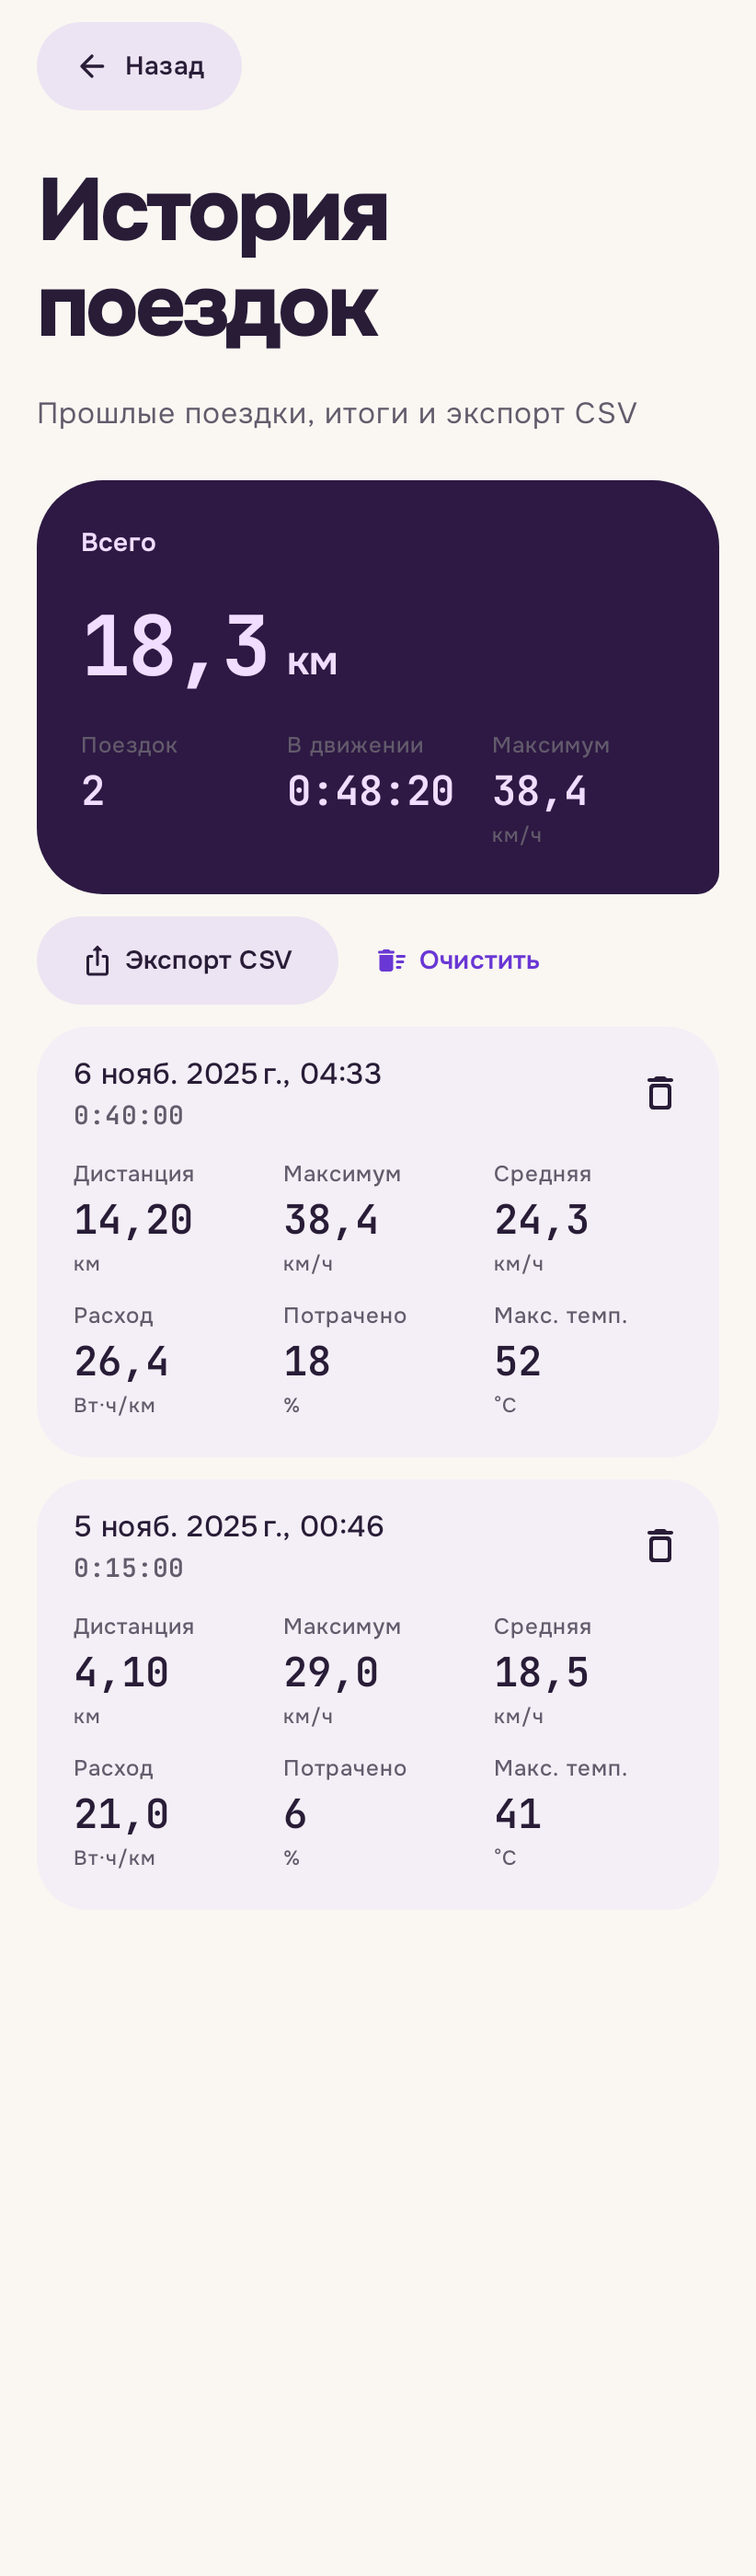
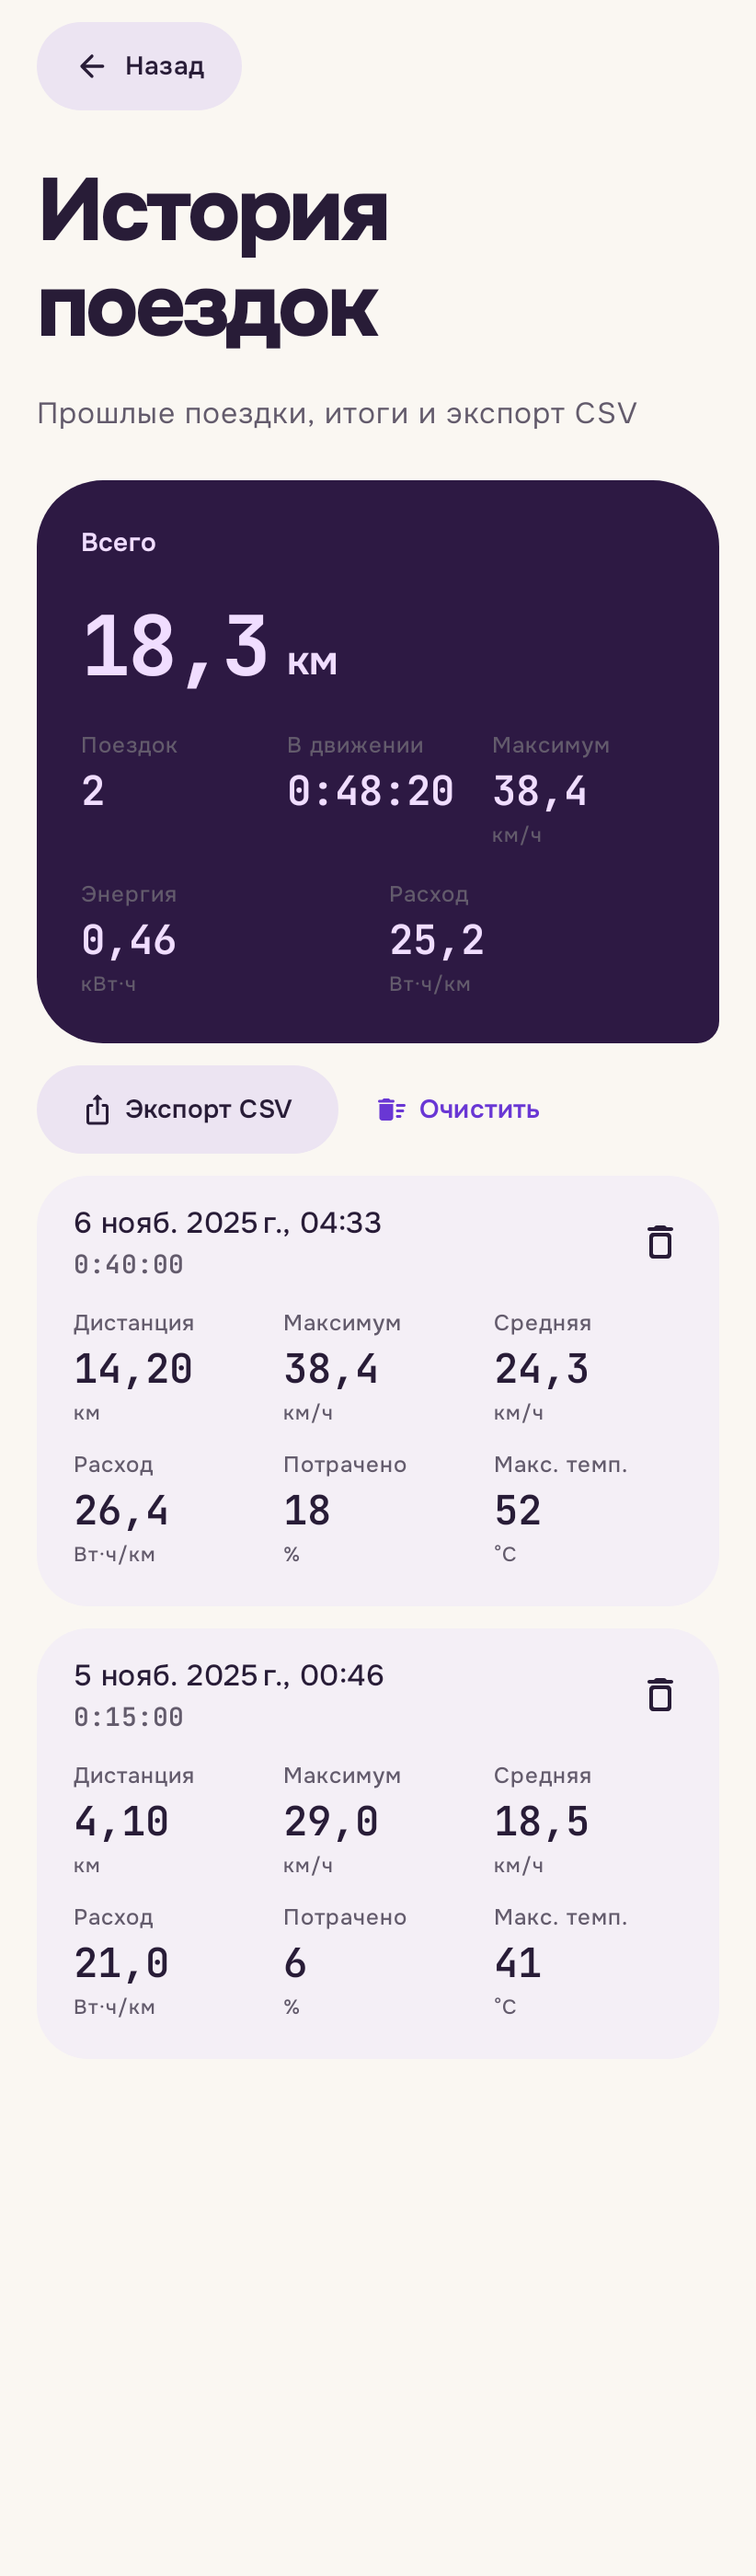
feat(trips): lifetime energy and average consumption in history totals; docs: session 2 continuation

diff --git a/app/src/main/java/com/freecyber/ion/TripsScreen.kt b/app/src/main/java/com/freecyber/ion/TripsScreen.kt
@@ -61,6 +61,11 @@ import java.util.Date
                 TripFigure(stringResource(R.string.trip_moving),V12Protocol.formatDuration(t.movingMs/1000),"",Modifier.weight(1f))
                 TripFigure(stringResource(R.string.trip_max),t.maxSpeed.fmt(1),stringResource(R.string.unit_kmh),Modifier.weight(1f))
             }
+            Row(horizontalArrangement=Arrangement.spacedBy(12.dp)) {
+                TripFigure(stringResource(R.string.trip_energy),(t.energyWh/1000).fmt(2),stringResource(R.string.unit_kwh),Modifier.weight(1f))
+                TripFigure(stringResource(R.string.trip_consumption),
+                    if(t.distanceKm>=1) (t.energyWh/t.distanceKm).fmt(1) else "—",stringResource(R.string.unit_wh_km),Modifier.weight(1f))
+            }
         }
     }
 }

diff --git a/docs/ai-rolling-handoff.md b/docs/ai-rolling-handoff.md
@@ -171,3 +171,12 @@
 - Версия **0.8.0-ai (versionCode 17)**. Коммиты: d541de4 → 96cf246 → 6ab0088 → feat(trips).
 - `:core:test :app:testDebugUnitTest` — 101 тест, 0 упало; `:app:compileDebugAndroidTestKotlin` ок; `lintDebug` отдельно — 0 ошибок, 20 предупреждений. `assembleDebug` в этом прогоне не собирался.
 - Не проверено на устройстве: GPS в поле (точность, расход батареи), трек на длинной поездке (>2400 точек), превью-редактор на живом колесе, разрешение местоположения на MIUI/ColorOS.
+
+## Сессия 2 — продолжение: GPX, счётчик GPS, регресс-тесты (коммиты после первого блока)
+
+- `feat(trips): GPX export…`: `TrackCodec.gpx` (GPX 1.1, время от старта поездки по стенному времени, экранирование имени), шаринг из экрана поездки через системный шэр; в карточке «Маршрут» длина трека (Haversine) рядом с дистанцией по счётчику колеса. Тест GPX-билдера (поинт, высота, экранирование — поймал отсутствие `&gt;`).
+- `feat(rides): live GPS fix counter…`: TrackRecorder отдаёт StateFlow счётчика фиксов; карточка сессии показывает «GPS: N», когда точки идут. WheelMonitor переспрашивает рекордер каждый пакет (`if (!graph.track.listening) start()`) — разрешение, выданное посреди сессии, подхватывается без переподключения.
+- `test(controls): regression suite…`: Robolectric-композ-тест `ControlEditorTest` — три теста на ExpandSliders (драфт переживает read-back посреди правки; нетронутый слайдер следует за колесом; Apply задизейблен до касания и шлёт ровно то, что на слайдерах). **Тест поймал реальный баг в моём же рерайте**: change-лямбда писала захваченное значение `value` вместо аргумента — слайдер возвращался назад. Исправлено (`change={new -> …}`). SettingSlider получил `sliderTag` (тег на сам Slider-нод, иначе SetProgress-семантика недоступна), ApplyButton — опциональный modifier для тега.
+- `feat(trips): энергия в итогах истории`: вторая строка в TotalsCard — суммарная энергия (кВт·ч) и средний расход Вт·ч/км (при дистанции ≥ 1 км); строка `unit_kwh`.
+- Счётчики: unit-тестов **108** (core 48 + app 60), lint 0 ошибок / 21 предупреждение, `assembleDebug` собран (0.8.0-ai, vc 17). Скриншоты перегенерированы.
+- Известные ограничения треков: checkpoint при смерти процесса сохраняет сводку, но не точки трека (дорисовка после рестарта невозможна); при выключенной записи поездки трек не пишется вовсе.
